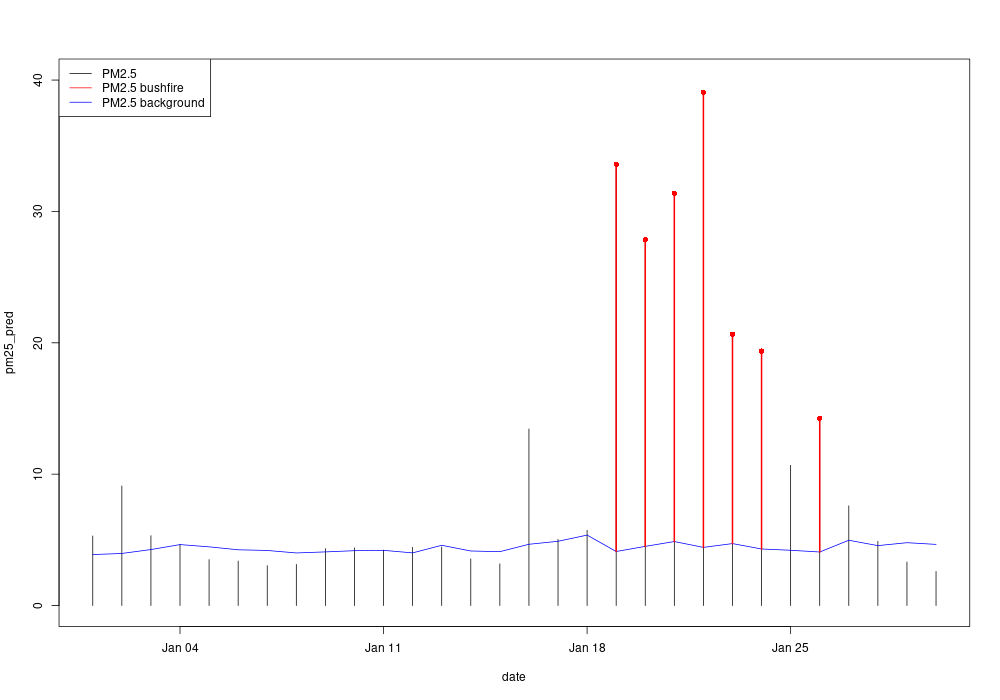
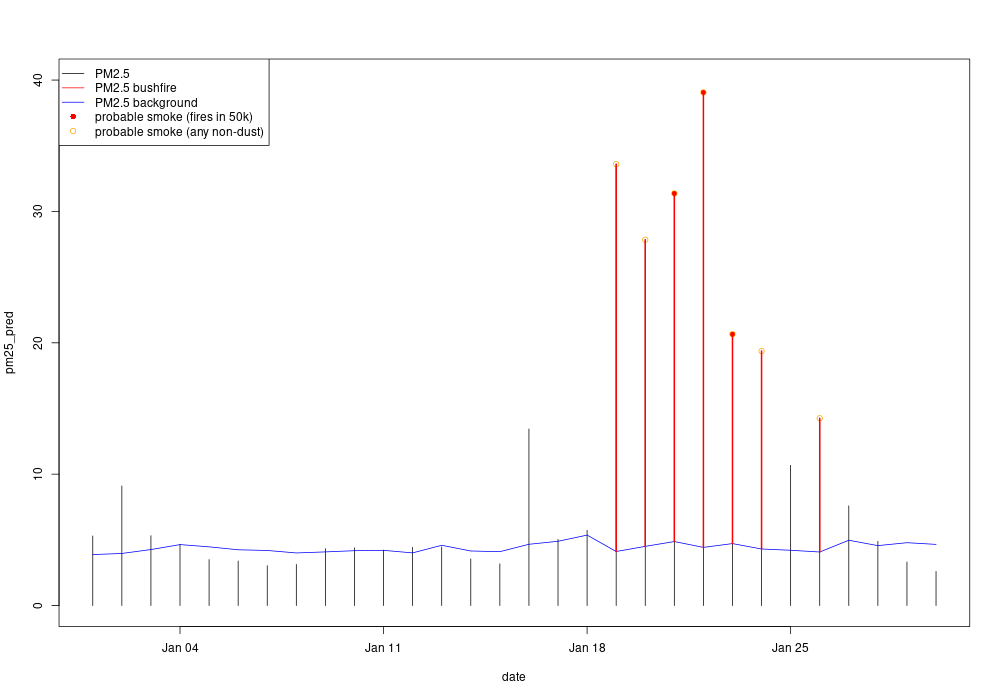
add example in R

Changed region(s): [[0.093, 0.09, 0.279, 0.21]]

diff --git a/README.md b/README.md
@@ -63,5 +63,7 @@ To run this script, you will need to parse in the directory of the merged files 
 % sh merge_clean.sh <source_directory>
 ```
 
+With R we can assign smoke levels to ABS census geographic units and use indicator flags of dust or active fire to identify probable smoke events (see `do_extract_abs_sa1.R`:
 
+![do_extract_abs_sa1_launceston.png](do_extract_abs_sa1_launceston.png)
 
